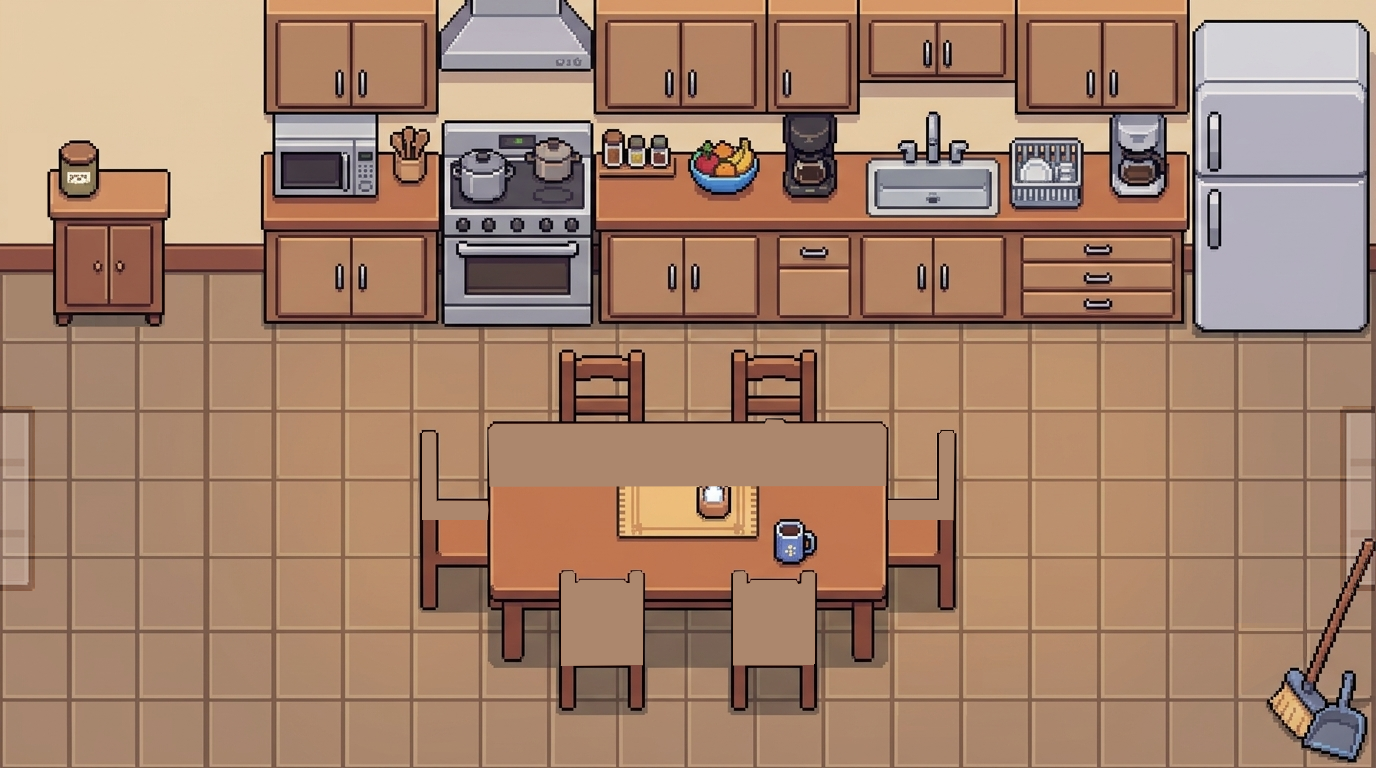
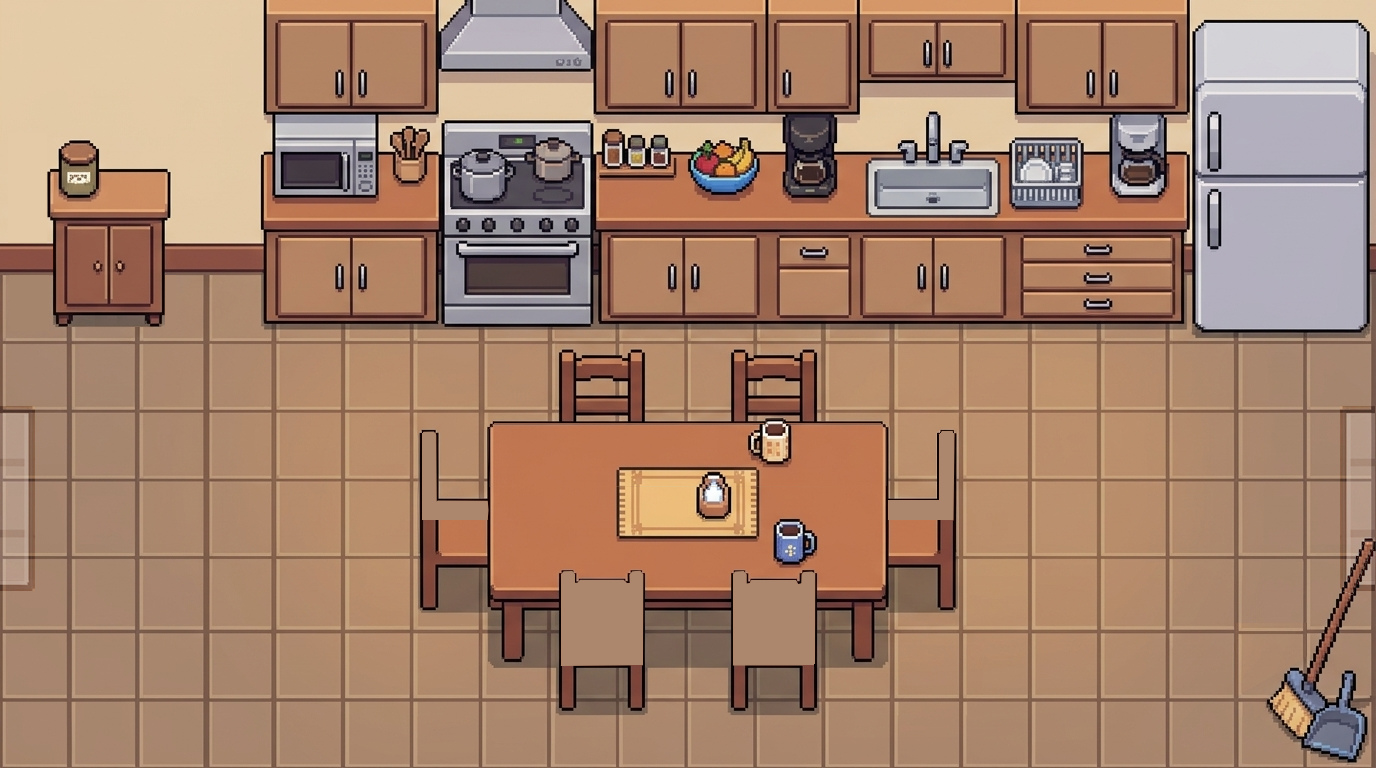
Add files via upload

Changed region(s): [[0.3438, 0.5312, 0.6562, 0.6562]]

diff --git a/game.js b/game.js
@@ -1,3 +1,8 @@
+document.addEventListener("deviceready", async () => {
+  const { StatusBar } = Capacitor.Plugins;
+  await StatusBar.hide();
+});
+
 const statusEl = document.getElementById("status");
 const playerCountEl = document.getElementById("playerCount");
 const joinBtn = document.getElementById("joinBtn");
@@ -111,7 +116,7 @@ function createDustParticle(x, y) {
   dustParticles.push({
     x: x + (Math.random() * 10 - 5),
     y: y + (Math.random() * 4 - 2),
-    size: Math.random() > 0.5 ? 8 : 12, // Dobrado: era 4 ou 6, agora é 8 ou 12
+    size: Math.random() > 0.5 ? 10 : 14, // Dobrado: era 4 ou 6, agora é 8 ou 12
     life: 1.0,                        
     vx: (Math.random() - 0.5) * 0.5,
     vy: -Math.random() * 0.5 - 0.2     
@@ -161,32 +166,32 @@ function drawPlayerSprite(p) {
   const frameH = spec.h;
 
   const anim = animState.get(p.id);
+  const isMoving = !!(anim && anim.moving);
   const defaultFrame = Math.min(2, spec.frames - 1);
-  const frameIndex = anim && anim.moving ? Math.floor(performance.now() / 125) % spec.frames : defaultFrame;
+  const frameIndex = isMoving ? Math.floor(performance.now() / 125) % spec.frames : defaultFrame;
   const flip = p.facing === "left";
 
-  // ancora: base do sprite alinhada com a base da hitbox, centralizado horizontalmente nela
-  const drawX = p.x + (Network.PLAYER_W - frameW) / 2;
-  const drawY = p.y + Network.PLAYER_H - frameH;
+  // --- EFEITO PULINHO (BOUNCE AMONG US) ---
+  let bounceY = 0;
+  if (isMoving && (frameIndex === 1 || frameIndex === 3)) {
+    bounceY = -5;
+  }
 
-  // --- ADICIONE AQUI O DESENHO DA SOMBRA NO CHÃO ---
-  // Desenha ANTES do sprite para ficar por baixo
+  const drawX = p.x + (Network.PLAYER_W - frameW) / 2;
+  const drawY = (p.y + Network.PLAYER_H - frameH) + bounceY;
+
+  // --- DESENHO DA SOMBRA NO CHÃO ---
   ctx.save();
-  // Posiciona o centro da elipse na base horizontal e vertical do jogador
-  const centerX = drawX + frameW / 2;
+  const centerX = p.x + Network.PLAYER_W / 2;
   const centerY = p.y + Network.PLAYER_H; 
   
-  // Define a cor preta com opacidade (0.3 = 30%)
   ctx.fillStyle = "rgba(0, 0, 0, 0.3)"; 
-  
   ctx.beginPath();
-  // Desenha a elipse: elipse(x, y, raioX, raioY, rotação, anguloInicial, anguloFinal)
-  // Ajuste os valores 20 (largura) e 8 (altura) se necessário para o tamanho da sombra
   ctx.ellipse(centerX, centerY, 20, 8, 0, 0, 2 * Math.PI);
   ctx.fill();
   ctx.restore();
-  // -------------------------------------------------
 
+  // --- DESENHO DO SPRITE ---
   if (sheet.ready) {
     ctx.save();
     if (flip) {
@@ -202,16 +207,27 @@ function drawPlayerSprite(p) {
     ctx.fillRect(p.x, p.y, Network.PLAYER_W, Network.PLAYER_H);
   }
 
-  // indicador de "sou eu": triangulozinho branco acima da própria cabeça
-  if (p.id === Network.myPeerId) {
-    ctx.beginPath();
-    ctx.moveTo(p.x + Network.PLAYER_W / 2, p.y - 4);
-    ctx.lineTo(p.x + Network.PLAYER_W / 2 - 7, p.y - 16);
-    ctx.lineTo(p.x + Network.PLAYER_W / 2 + 7, p.y - 16);
-    ctx.closePath();
-    ctx.fillStyle = "#fff";
-    ctx.fill();
-  }
+  // --- EXIBIÇÃO DO NOME DA COR ACIMA DA CABEÇA (VISÍVEL PARA TODOS) ---
+  ctx.save();
+  ctx.font = '15px "Press Start 2P", sans-serif';
+  ctx.textAlign = "center";
+  ctx.textBaseline = "bottom";
+
+  const nameX = p.x + Network.PLAYER_W / 2;
+  const nameY = drawY - 6; // Posição Y logo acima da cabeça (acompanha o pulinho)
+  const nameText = p.color ? p.color : "";
+
+  // Borda/Contorno preto via strokeText (4px)
+  ctx.strokeStyle = "#000000";
+  ctx.lineWidth = 4;
+  ctx.lineJoin = "miter";
+  ctx.strokeText(nameText, nameX, nameY);
+
+  // Preenchimento do texto em branco
+  ctx.fillStyle = "#ffffff";
+  ctx.fillText(nameText, nameX, nameY);
+
+  ctx.restore();
 }
 
 function drawRoomScene(roomId, roomPlayers) {
@@ -293,7 +309,7 @@ function drawToast() {
   ctx.save();
 
   // Fonte
-  ctx.font = "bold 26px system-ui, sans-serif";
+  ctx.font = '17px "Press Start 2P", sans-serif';
 
   const textWidth = ctx.measureText(text).width;
 
@@ -433,7 +449,7 @@ Network.on("onGameState", ({ players, timeLeft, roomLights }) => {
           position: 'top'
         });
       } else {
-        showToast(`${message}`);
+        showToast(message);
       }
 
       if (p.room === myRoom) {
@@ -460,7 +476,6 @@ Network.on("onGameState", ({ players, timeLeft, roomLights }) => {
     roomPlayerIds.add(p.id);
     const anim = animState.get(p.id);
     const moving = !!(anim && anim.moving) && !p.transforming;
-    setLoopPlaying(`${p.id}:andando`, SFX.andando, moving && !p.sprinting);
     setLoopPlaying(`${p.id}:corrida`, SFX.corrida, moving && !!p.sprinting);
   });
   // quem não está mais no meu cômodo (saiu, ou eu que troquei de cômodo) para de tocar
@@ -487,14 +502,13 @@ Network.on("onGameOver", ({ reason, survivors }) => {
   stopAllLoopAudios();
   gameOverEl.classList.remove("hidden");
   const youSurvived = survivors.includes(Network.myPeerId);
-  gameOverText.textContent =
+  gameOverText.innerHTML =
     reason === "lastSurvivor"
       ? youSurvived
-        ? "Você sobreviveu!"
-        : "Os zumbis venceram."
+        ? "Você sobreviveu!" : "Os zumbis venceram."
       : youSurvived
-      ? `Tempo esgotado! Você e mais ${Math.max(0, survivors.length - 1)} sobreviveram!`
-      : "Tempo esgotado! Os zumbis perderam.";
+      ? `Tempo esgotado!<br>Você e mais ${Math.max(0, survivors.length - 1)} sobreviveram!`
+      : `Tempo esgotado!<br>Os zumbis perderam.`;
 
   restartBtn.classList.toggle("hidden", !Network.isHost);
   if (Network.isHost) {
@@ -502,7 +516,7 @@ Network.on("onGameOver", ({ reason, survivors }) => {
     restartBtn.disabled = !enough;
     restartBtn.textContent = enough
       ? "Reiniciar"
-      : `Reiniciar (precisa de ${MIN_PLAYERS}+)`;
+      : `Reiniciar (${MIN_PLAYERS})`;
   }
 });
 
@@ -554,6 +568,7 @@ function keyboardVector() {
   return { dx, dy };
 }
 
+// --- input: joystick virtual (híbrido touch + mouse, igual ao Golzinho Livre) ---
 // --- input: joystick virtual (isolado por toque) ---
 
 let joystickActive = false;

diff --git a/rooms-data.js b/rooms-data.js
@@ -33,7 +33,7 @@ const ROOMS = {
     diagonals: [],
     exits: [
       { x: 658, y: 80, w: 85, h: 17, toRoom: "quarto", spawnX: 673, spawnY: 625 },
-      { x: 1372, y: 315, w: 4, h: 132, toRoom: "rua", spawnX: 1155, spawnY: 55 },
+      { x: 1372, y: 315, w: 4, h: 132, toRoom: "rua", spawnX: 83, spawnY: 85 },
       { x: 0, y: 315, w: 4, h: 132, toRoom: "cozinha", spawnX: 1291, spawnY: 454 },
     ],
     staticBack: [],
@@ -86,16 +86,14 @@ const ROOMS = {
     walls: [
       { x: 243, y: 176, w: 145, h: 4 },
       { x: 933, y: 282, w: 160, h: 8 },
-      { x: 0, y: 284, w: 77, h: 232 },
       { x: 1300, y: 284, w: 77, h: 232 },
     ],
     diagonals: [],
     exits: [
-      { x: 1138, y: 0, w: 89, h: 3, requireHalfOverlap: true, toRoom: "sala", spawnX: 1292, spawnY: 333 },
+      { x: 79, y: 0, w: 74, h: 3, requireHalfOverlap: true, toRoom: "sala", spawnX: 1240, spawnY: 333 },
     ],
     staticBack: [],
     ySort: [
-      { src: "img/rua-cone.png", x: 33, y: 250, w: 38, h: 34 },
       { src: "img/rua-cone.png", x: 1306, y: 250, w: 38, h: 34 },
       { src: "img/rua-arbusto-baixo.png", x: 357, y: 663, w: 128, h: 105 },
       { src: "img/rua-arbusto-baixo.png", x: 1017, y: 663, w: 128, h: 105 },
@@ -111,7 +109,7 @@ const ROOMS = {
     bg: "img/cozinha.png",
     walls: [
       { x: 0, y: 230, w: ROOM_W, h: 10 },
-      { x: 491, y: 486, w: 394, h: 77 },
+      { x: 491, y: 530, w: 394, h: 43 },
     ],
     diagonals: [],
     exits: [
@@ -120,11 +118,12 @@ const ROOMS = {
     ],
     staticBack: [],
     ySort: [
-      { src: "img/cozinha-mesa.png", x: 488, y: 420, w: 399, h: 68 },
+      { src: "img/cozinha-mesa.png", x: 489, y: 420, w: 398, h: 110 },
       { src: "img/cozinha-cadeira-baixo.png", x: 560, y: 570, w: 84, h: 96 },
       { src: "img/cozinha-cadeira-baixo.png", x: 732, y: 570, w: 84, h: 96 },
       { src: "img/cozinha-cadeira-lateral.png", x: 888, y: 431, w: 67, h: 90 },
       { src: "img/cozinha-cadeira-lateral.png", x: 421, y: 431, w: 67, h: 90, flip: true },
+      { src: "img/cozinha-armarinho.png", x: 48, y: 142, w: 121, h: 184 },
     ],
     lightSwitch: null,
   },
@@ -144,7 +143,7 @@ const ROOMS = {
     diagonals: [],
     exits: [
       { x: 849, y: 0, w: 94, h: 13, toRoom: "cozinha", spawnX: 80, spawnY: 454 },
-      { x: 151, y: 310, w: 34, h: 34, toRoom: "porao", spawnX: 80, spawnY: 7 },
+      { x: 151, y: 310, w: 34, h: 34, toRoom: "porao", spawnX: 110, spawnY: 7 },
     ],
     staticBack: [
       { src: "img/quintal-piscina-baixo.png", x: 524, y: 345, w: 327, h: 189 },
@@ -180,7 +179,7 @@ const ROOMS = {
       { x1: 32, y1: 542, x2: 373, y2: 384, thickness: 10, side: "above" },
     ],
     exits: [
-      { x: 0, y: 0, w: 15, h: 110, dir: "left", toRoom: "quintal", spawnX: 140, spawnY: 380 },
+      { x: 0, y: 0, w: 15, h: 110, dir: "left", toRoom: "quintal", spawnX: 140, spawnY: 170 },
     ],
     staticBack: [],
     staticFront: [

diff --git a/network.js b/network.js
@@ -21,11 +21,11 @@ const Network = (() => {
   const CLIENT_TIMEOUT_MS = 6000;
 
   const PLAYER_W = 54, PLAYER_H = 96;
-  const SURVIVOR_SPEED = 280; // px/s
-  const SPRINT_MULT = 2.8;
-  const SPRINT_DURATION = 1000;
+  const SURVIVOR_SPEED = 280;
+  const SPRINT_MULT = 2.5;
+  const SPRINT_DURATION = 700;
   const SPRINT_COOLDOWN = 3000;
-  const TICK_MS = 50; // 20Hz
+  const TICK_MS = 50;
   const DEFAULT_DURATION_MIN = 2;
   const BLACKOUT_MS = 8000;
   const TRANSFORM_MS = 3000;
@@ -380,6 +380,7 @@ function spawnFarFrom(roomId, others, minDistance) {
       p.y = survivorPositions[i].y;
       p.infected = false;
       p.transforming = false;
+      p.invulnerableUntil = 0;
       p.alive = true;
       p.facing = "right";
       p.input = { dx: 0, dy: 0, sprint: false };
@@ -393,6 +394,7 @@ function spawnFarFrom(roomId, others, minDistance) {
       p.y = infectedPos.y;
       p.infected = true;
       p.transforming = false;
+      p.invulnerableUntil = 0;
       p.alive = true;
       p.facing = "right";
       p.input = { dx: 0, dy: 0, sprint: false };
@@ -502,6 +504,7 @@ const speed = isSprinting ? SURVIVOR_SPEED * SPRINT_MULT : SURVIVOR_SPEED;
             p.room = ex.toRoom;
             p.x = ex.spawnX;
             p.y = ex.spawnY;
+            p.invulnerableUntil = now + 1500;
             break;
           }
         }
@@ -513,7 +516,9 @@ const speed = isSprinting ? SURVIVOR_SPEED * SPRINT_MULT : SURVIVOR_SPEED;
       if (p.infected && !p.transforming) (infectedByRoom[p.room] ||= []).push(p);
     });
     players.forEach((p) => {
-      if (p.infected) return;
+      // Ignora se o jogador já for infectado OU se ainda estiver invulnerável
+      if (p.infected || now < (p.invulnerableUntil || 0)) return; // <--- VALIDAÇÃO ADICIONADA
+
       const infs = infectedByRoom[p.room];
       if (!infs) return;
       for (const inf of infs) {

diff --git a/game.css b/game.css
@@ -218,8 +218,8 @@ canvas {
 
 #joystickZone {
   position: absolute;
-  left: 24px;
-  bottom: 24px;
+  left: 110px;
+  bottom: 40px;
   width: 110px;
   height: 110px;
   border-radius: 50%;
@@ -244,14 +244,14 @@ canvas {
 
 #sprintBtn {
   position: absolute;
-  right: 44px;
-  bottom: 34px;
+  right: 120px;
+  bottom: 40px;
   width: 60px;
   height: 60px;
   border-radius: 16px;
-  background-color: rgba(255, 255, 255, 0.15);
-  border: 2px solid rgba(255, 255, 255, 0.35);
-  border-bottom: 7px solid rgba(255, 255, 255, 0.35);
+  background-color: rgba(0, 0, 0, 0.15);
+  border: 2px solid rgba(255, 255, 255, 0.3);
+  border-bottom: 5px solid rgba(255, 255, 255, 0.3);
   color: transparent;
   z-index: 5;
   outline: none;

diff --git a/audio.js b/audio.js
@@ -13,7 +13,6 @@ let SFX_VOLUME = 0.3;
 let MUSIC_VOLUME = 0.26;
 
 const SFX = {
-  andando: `${AUDIO_DIR}som-andando.mp3`,
   corrida: `${AUDIO_DIR}som-corrida.mp3`,
   infectado: `${AUDIO_DIR}som-infectado.mp3`,
   interruptor: `${AUDIO_DIR}som-interruptor.mp3`,
